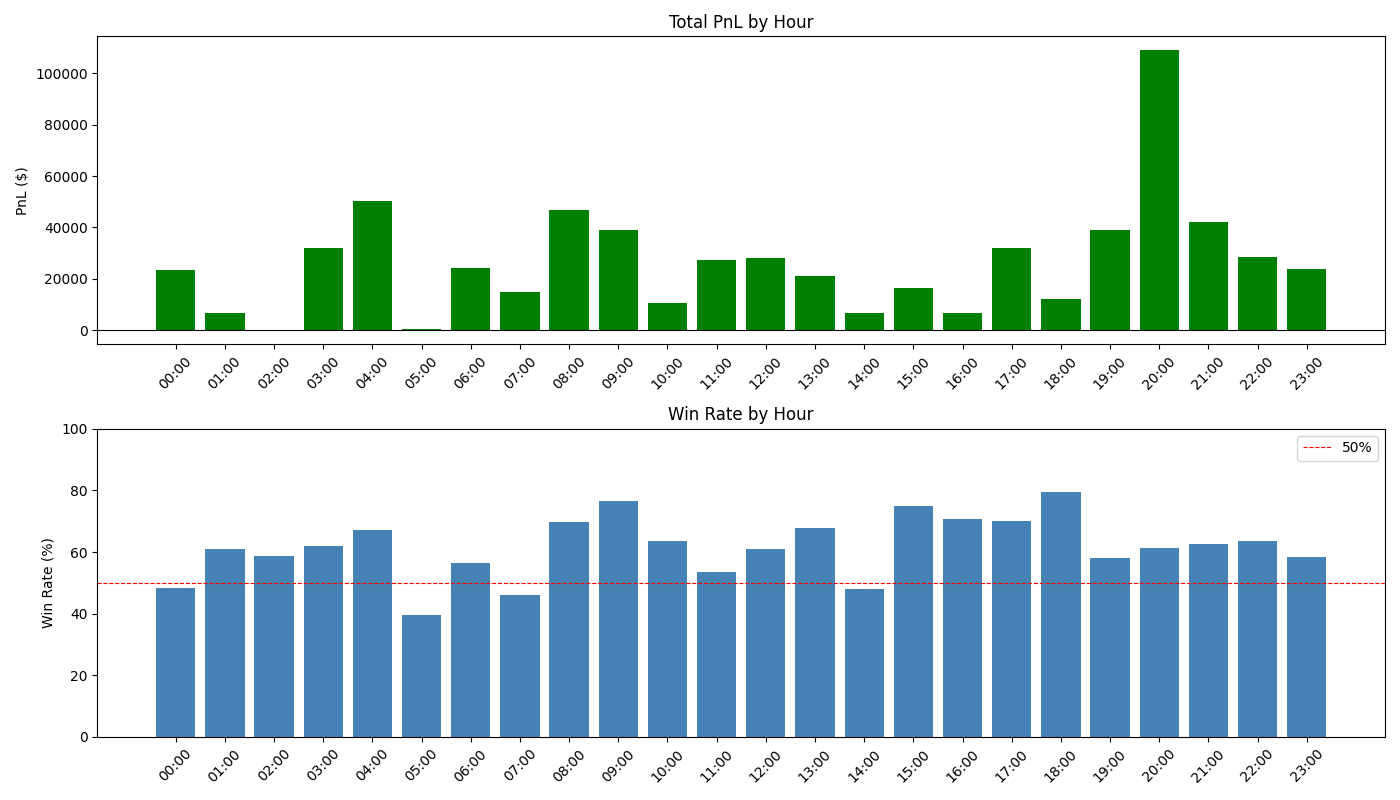
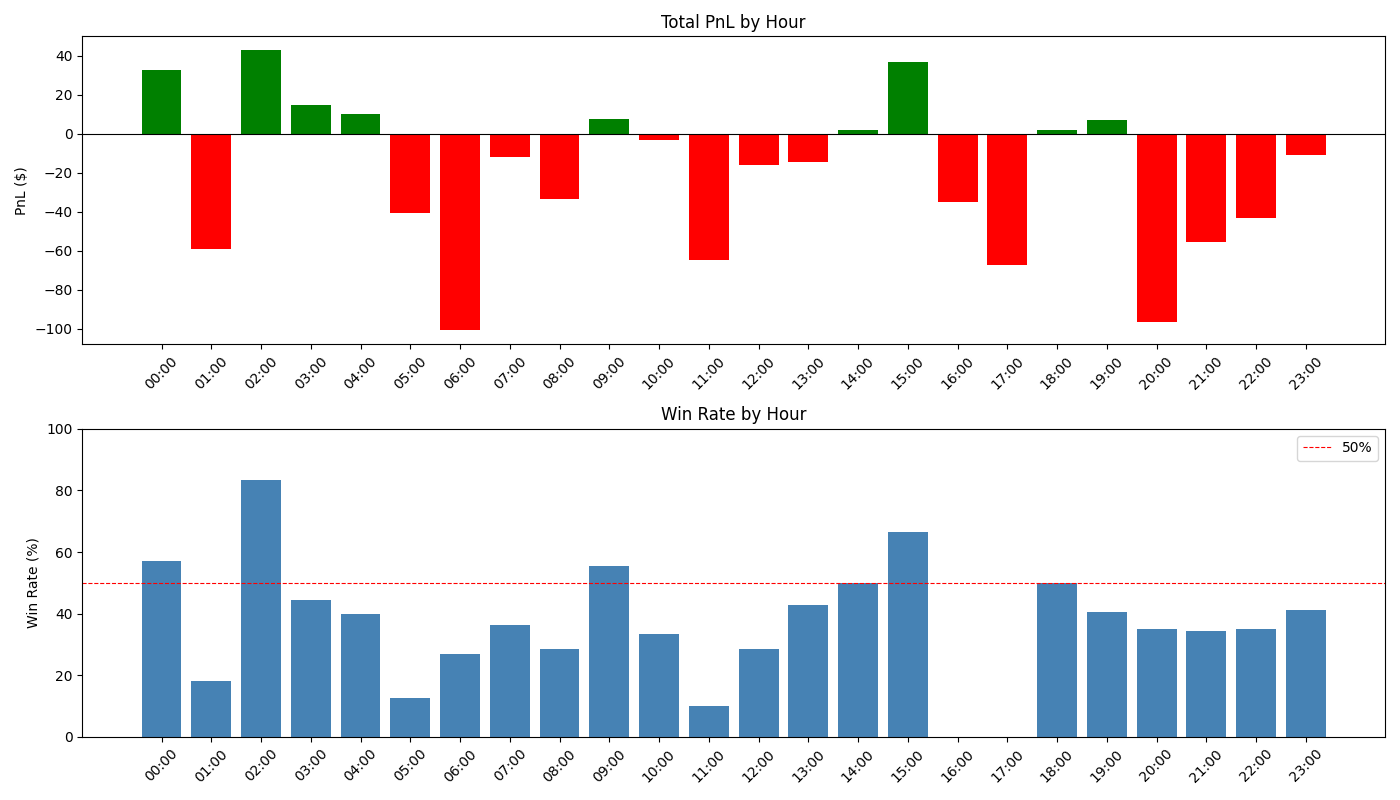
Added extra features

diff --git a/optimizer_asian.py b/optimizer_asian.py
@@ -7,6 +7,7 @@ import itertools
 # Signal: candle body >= reversal_pct → enter opposite direction at close + slippage
 # Entry = market order (taker fee), SL = stop-market + slippage, TP = limit
 # TIME exit after time_exit candles
+# DATA FILTERED TO ASIAN SESSION (05:30 - 11:30 IST) ONLY
 
 def run_backtest_vec(opens, highs, lows, closes,
                      rev_pct, tp_pct, sl_pct, sl_slip_pct, slippage_pct,
@@ -109,23 +110,33 @@ def run_backtest_vec(opens, highs, lows, closes,
     }
 
 
-# ---- Load Data ---------------------------------------------------------------
+# ---- Load Data & Filter to Asian Session (05:30 - 11:30 IST) ----------------
 print("Loading data...")
 df_raw = pd.read_csv("data.csv")
-if 'timestamp' in df_raw.columns:
-    df_raw['timestamp'] = pd.to_datetime(df_raw['timestamp'])
-    df_raw = df_raw.sort_values('timestamp').reset_index(drop=True)
+df_raw['timestamp'] = pd.to_datetime(df_raw['timestamp'])
+df_raw = df_raw.sort_values('timestamp').reset_index(drop=True)
 
-opens  = df_raw['open'].values.astype(np.float64)
-highs  = df_raw['high'].values.astype(np.float64)
-lows   = df_raw['low'].values.astype(np.float64)
-closes = df_raw['close'].values.astype(np.float64)
+# Convert UTC to IST and filter
+df_raw['ist_time'] = df_raw['timestamp'] + pd.Timedelta(hours=5, minutes=30)
+df_raw['ist_hour'] = df_raw['ist_time'].dt.hour + df_raw['ist_time'].dt.minute / 60.0
+
+# Asian session: 05:30 IST (5.5) to 11:30 IST (11.5)
+mask = (df_raw['ist_hour'] >= 5.5) & (df_raw['ist_hour'] < 11.5)
+df_asian = df_raw[mask].reset_index(drop=True)
+
+print(f"Total candles: {len(df_raw)} | Asian session candles: {len(df_asian)} "
+      f"({len(df_asian)/len(df_raw)*100:.1f}%)")
+
+opens  = df_asian['open'].values.astype(np.float64)
+highs  = df_asian['high'].values.astype(np.float64)
+lows   = df_asian['low'].values.astype(np.float64)
+closes = df_asian['close'].values.astype(np.float64)
 
 # ---- Parameter Grid ----------------------------------------------------------
 reversal_pcts = [0.10, 0.15, 0.17, 0.20, 0.25, 0.30, 0.40, 0.50]
 tp_pcts       = [0.10, 0.15, 0.20, 0.25, 0.30, 0.40, 0.50]
 sl_pcts       = [0.05, 0.08, 0.10, 0.12, 0.15, 0.20]
-time_exits    = [2, 3, 5, 7]
+time_exits    = [2, 3, 5, 7, 10, 13]
 
 total = len(reversal_pcts) * len(tp_pcts) * len(sl_pcts) * len(time_exits)
 print(f"Total combinations: {total}")
@@ -144,6 +155,7 @@ for rev, tp, sl, te in itertools.product(reversal_pcts, tp_pcts, sl_pcts, time_e
         sl_slip_pct  = 0.03  / 100.0,
         slippage_pct = 0.02  / 100.0,
         time_exit    = te,
+        leverage     = 10.0,
     )
     if res:
         results.append({'reversal_pct': rev, 'tp_pct': tp, 'sl_pct': sl, 'time_exit': te, **res})
@@ -155,12 +167,12 @@ pd.set_option('display.float_format', '{:.4f}'.format)
 pd.set_option('display.max_columns', None)
 pd.set_option('display.width', 220)
 
-print("=== TOP 15 CONFIGURATIONS ===")
+print("=== TOP 15 ASIAN SESSION CONFIGURATIONS ===")
 print(df_res.head(15).to_string(index=False))
 
 best = df_res.iloc[0]
 print(f"""
-=== BEST CONFIG TO PLUG INTO config.py ===
+=== BEST ASIAN SESSION CONFIG ===
 
   REVERSAL_CANDLE_PCT = {best['reversal_pct']:.2f} / 100.0
   TAKE_PROFIT_PCT     = {best['tp_pct']:.2f} / 100.0

diff --git a/analyze_monthly.py b/analyze_monthly.py
@@ -18,15 +18,28 @@ def analyze_monthly():
 
     monthly_stats['win_rate'] = df.groupby('month').apply(lambda x: (x['pnl_abs'] > 0).mean() * 100)
 
+    # Compute cumulative equity to get monthly % return
+    from config import Config
+    initial_capital = Config.INITIAL_CAPITAL
+    equity = initial_capital
+    monthly_pct = {}
+    for month in sorted(monthly_stats.index):
+        month_pnl = monthly_stats.loc[month, 'pnl_abs']
+        pct = (month_pnl / equity) * 100
+        monthly_pct[month] = pct
+        equity += month_pnl
+    monthly_stats['pnl_pct_return'] = pd.Series(monthly_pct)
+
     print("\n=== Monthly Performance Analysis ===")
-    print(f"{'Month':<10} {'PnL ($)':<20} {'Trades':<10} {'Win Rate':<10}")
-    print("-" * 55)
+    print(f"{'Month':<10} {'PnL ($)':<20} {'PnL %':<12} {'Trades':<10} {'Win Rate':<10}")
+    print("-" * 67)
 
     for month, row in monthly_stats.iterrows():
-        print(f"{month:<10} ${row['pnl_abs']:<19,.2f} {int(row['trade_count']):<10} {row['win_rate']:<10.2f}%")
-        
-    print("-" * 55)
-    print(f"Total Net PnL: ${df['pnl_abs'].sum():,.2f}")
+        print(f"{month:<10} ${row['pnl_abs']:<19,.2f} {row['pnl_pct_return']:>+8.2f}%   {int(row['trade_count']):<10} {row['win_rate']:<10.2f}%")
+
+    print("-" * 67)
+    total_pct = (df['pnl_abs'].sum() / initial_capital) * 100
+    print(f"Total Net PnL: ${df['pnl_abs'].sum():,.2f}  ({total_pct:+.2f}% on initial capital)")
 
 if __name__ == "__main__":
     analyze_monthly()

diff --git a/live_trader.py b/live_trader.py
@@ -195,7 +195,7 @@ async def _session(in_position: bool, current_candle: dict):
 
         signal = get_signal(current_candle["open"], current_candle["close"])
         if signal == 0:
-            log.info("T-300ms check: body < 0.17% — no trade")
+            log.info(f"T-400ms check: body < {cfg.REVERSAL_CANDLE_PCT*100:.2f}% — no trade")
             return
 
         traded_candle_start = scheduled_candle_start

diff --git a/config.py b/config.py
@@ -19,7 +19,7 @@ class Config:
     LEVERAGE           = 10.0           # 1x for safe testing, up to 5x later
 
     # Fees (Delta Exchange maker/taker)
-    ENTRY_FEE_PCT = 0.05 / 100.0  # maker limit order = 0% fee
+    ENTRY_FEE_PCT = 0.05 / 100.0  # taker market order fee
     EXIT_FEE_PCT  = 0.00  / 100.0
 
     # Initial Capital

diff --git a/fetch_delta_data.py b/fetch_delta_data.py
@@ -76,4 +76,4 @@ def fetch_historical_data(symbol="ETHUSDT", resolution="1m", days=120):
     print(f"  To   : {df['timestamp'].iloc[-1]}")
 
 if __name__ == "__main__":
-    fetch_historical_data(days=360)
+    fetch_historical_data(days=60)
